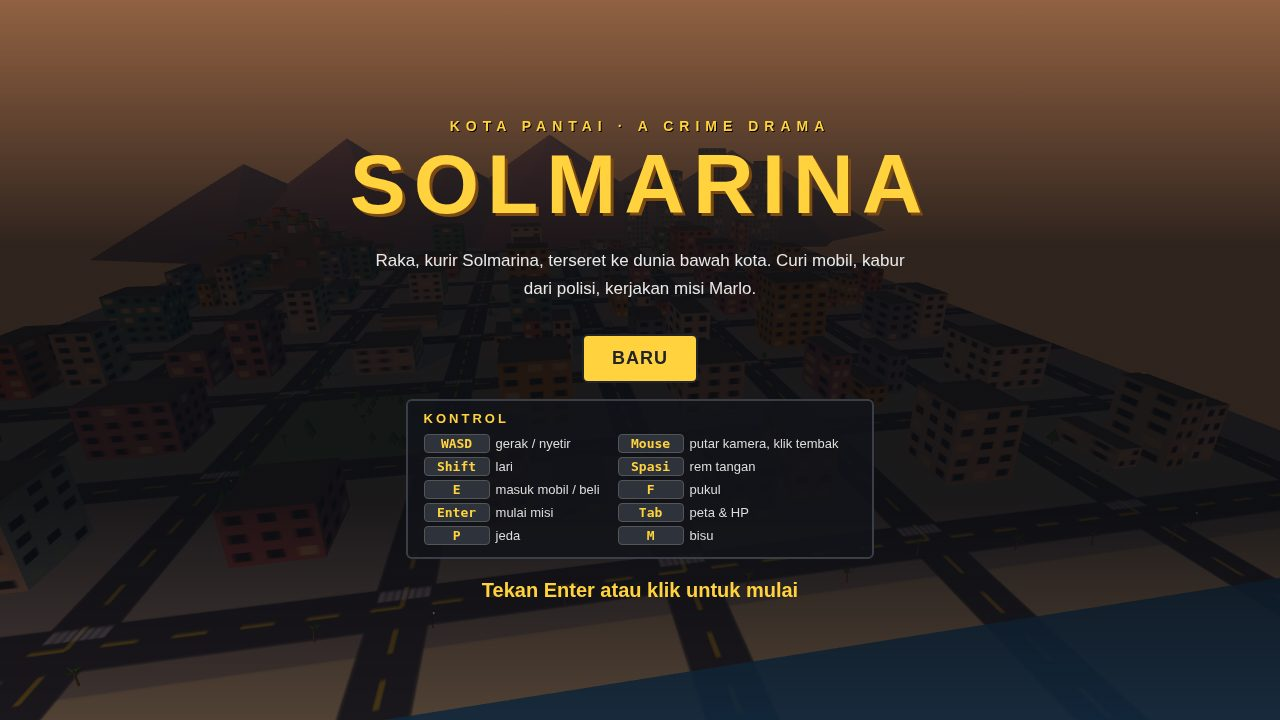
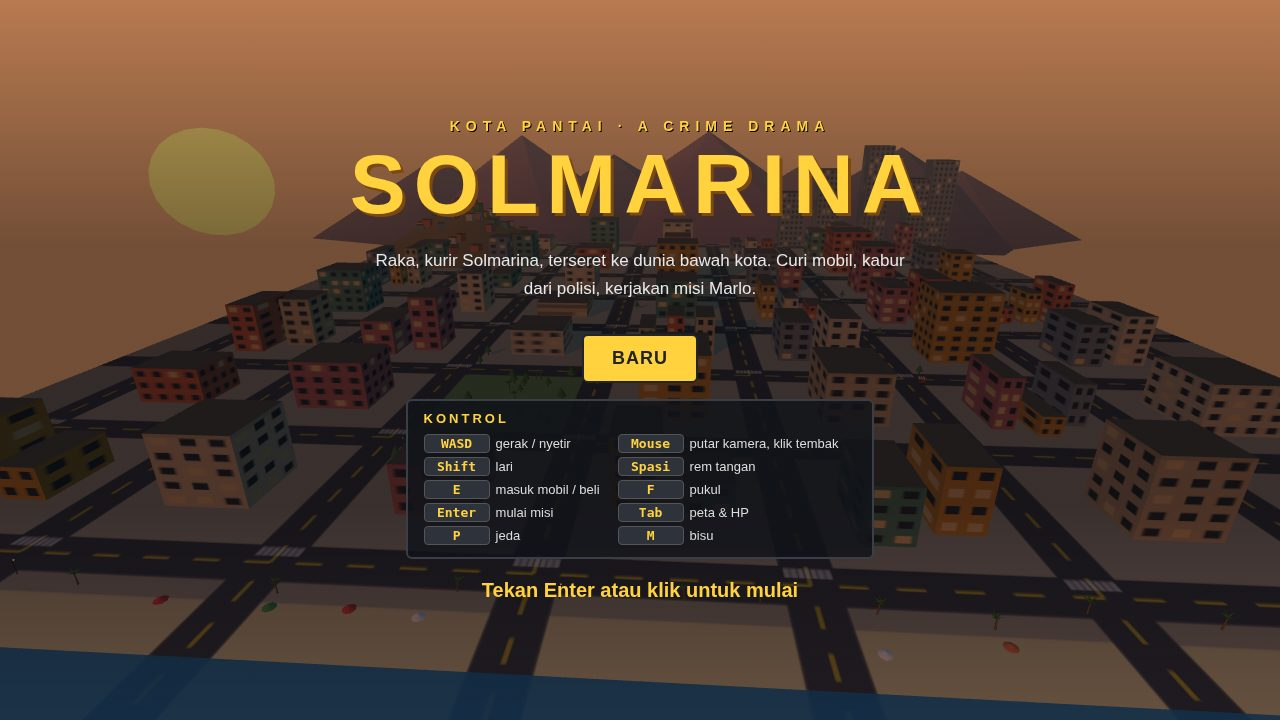
Polish pass v3: composition (Mare Alta bar)
- 3-chase is composition, not map: police 10-12 units ahead (not 20+)
  plus a third unit right behind the player, big in the lower frame;
  4 traffic cars strung ahead on the beachfront road; heli 2x scale,
  low over the beach south of the road (upper-left, clear of the
  objective banner, side-on so it reads blue, not a black slab);
  camera yawed 0.3 rad toward the sea so beach/palms/umbrellas/crowd
  fill the left third; crowd is two packed rows facing the road;
  beach umbrellas added as static sand decor (own seeded rng, v2
  decor layout untouched).
- 1-start: the sun disc is no longer hidden on the title screen and
  no longer sits south-west behind the camera: it is west-northwest
  over the ridge, the title camera looks nudged west so it reads
  upper-left, clear of the text; the disc billboards to the camera
  (round, not a squashed ellipse) and is bigger/brighter (1.8x,
  0xffd76a); title overlay lightened 0.84 -> 0.55 mid-band so the
  sunset sky reads bright instead of flat mud.
- 4-mission: player faces ENE so stalls 2-3 and the cafe beacon read
  across the frame; 8 shoppers (all three stalls + two foreground,
  one at each lower corner) and 2 traffic cars on the market street,
  so the bottom half is people and street, not empty pavement.
- Map unchanged (already matches the reference).

Verified: unit-3d 99/99, live-3d 43/43, 0 console errors, 4 shots.

diff --git a/game/src/shots.js b/game/src/shots.js
@@ -18,7 +18,10 @@ export function stageShot(G, name) {
     // shot only: at the normal 520 the hill and towers wash out.
     G.clock = 561;
     if (G.scene && G.scene.fog) { G.scene.fog.near = 300; G.scene.fog.far = 1800; }
-    G.shotCamera = { pos: { x: 0, y: 120, z: 420 }, look: { x: 60, y: 0, z: 100 } };
+    // look nudged west (was x 60): the golden-hour sun disc sits
+    // west-northwest over the ridge, so from here it reads upper-left,
+    // clear of the title text, instead of hiding behind the camera
+    G.shotCamera = { pos: { x: 0, y: 120, z: 420 }, look: { x: -20, y: 0, z: 100 } };
     return;
   }
   if (name === '2-drive') {
@@ -60,37 +63,62 @@ export function stageShot(G, name) {
     car.x = 60; car.z = 280;
     car.heading = Math.PI / 2;
     G.player.x = car.x; G.player.z = car.z;
-    G.cameraRig.snapTo(car.heading);
+    // camera looks 0.3 rad toward the sea (south): the beach, palms,
+    // umbrellas and crowd fill the left third of the frame and the sea
+    // reads beyond them, instead of the frame being all road
+    G.cameraRig.snapTo(car.heading, 0.3);
     // escape mission m2: the objective banner + TERLIHAT indicator read
     G.wanted.addHeat(75); // 4 stars
     const def = G.missions.defs.find((m) => m.id === 'm2');
     G.missions.start(def);
     balanceUnits(G.police, G.wanted.stars, G.player.x, G.player.z, G.rng);
-    // police cars IN FRAME: two cutting across ahead of the player (the
-    // chase camera looks forward, so pursuers behind the player are
-    // invisible); a third closes in from behind
+    // police cars IN FRAME and CLOSE (the v2 complaint: small and far,
+    // bottom half empty road): two cutting across just ahead of the
+    // player, and a third right behind the player on the north lane,
+    // between the camera and the player car, so it reads big in the
+    // lower-right of the frame like the reference's nearest unit
     const units = G.police.units.filter((u) => u.kind === 'car');
     const spots = [
-      { x: 38, z: 274, heading: -Math.PI / 2 }, // ahead-left, facing the player
-      { x: 42, z: 288, heading: -Math.PI / 2 }, // ahead-right, facing the player
-      { x: 84, z: 280, heading: Math.PI / 2 }, // behind, in pursuit
+      { x: 48, z: 275, heading: -Math.PI / 2 }, // ahead-left, facing the player
+      { x: 50, z: 285, heading: -Math.PI / 2 }, // ahead-right, facing the player
+      { x: 62, z: 275.5, heading: Math.PI / 2 }, // behind, in pursuit, big
     ];
     units.forEach((u, i) => {
       const s = spots[i % spots.length];
       u.car.x = s.x; u.car.z = s.z; u.car.heading = s.heading; u.car.speed = 20;
     });
-    // helicopter hovering low and close ahead down the beachfront road,
-    // just above the camera's view axis: the chase camera pitches down
-    // steeply, so a heli at hover height sits above the frame; low, close
-    // and (at 1.5x scale) big, it reads at the top edge like the reference
+    // traffic ahead on the beachfront road (the other v2 complaint:
+    // no cars ahead): four cars strung down the road in front of the
+    // player, so the road ahead is full, not an empty stretch
+    const traffic = G.vehicles.list.filter((c) => c.driver === 'traffic');
+    const trafficSpots = [
+      { x: 44, z: 280, heading: Math.PI / 2 },
+      { x: 36, z: 276, heading: Math.PI / 2 },
+      { x: 27, z: 284, heading: Math.PI / 2 },
+      { x: 18, z: 278, heading: -Math.PI / 2 }, // oncoming
+    ];
+    traffic.slice(0, 4).forEach((c, i) => {
+      c.x = trafficSpots[i].x; c.z = trafficSpots[i].z; c.heading = trafficSpots[i].heading; c.speed = 12;
+    });
+    // helicopter low, close and ahead (2x scale): big across the top of
+    // the frame like the reference, not a toy at the top edge. It sits
+    // SOUTH of the road, over the beach (z 296, not 284): from the chase
+    // camera that puts it upper-left over the sea, clear of the objective
+    // banner, and the camera sees its side, not just its dark underside.
+    // y 5, not 7: updateHeli lerps it toward hover height 20 over the
+    // staged frames, so a y 7 start ends half-clipped at the top edge.
+    // angle pi puts its orbit target north of the player, so it drifts
+    // over the road, not out to sea
     G.heli.active = true;
     G.heli.leaving = false;
-    G.heli.x = 25; G.heli.z = 288; G.heli.y = 7;
-    // crowd of pedestrians on the beach sidewalk watching the chase
+    G.heli.angle = Math.PI;
+    G.heli.x = 42; G.heli.z = 296; G.heli.y = 5;
+    // crowd of pedestrians on the beach sidewalk watching the chase,
+    // two packed rows facing the road (was one loose row facing west)
     G.peds.list.forEach((ped, i) => {
-      ped.x = -20 + (i % 8) * 12;
-      ped.z = 292 + Math.floor(i / 8) * 6;
-      ped.heading = Math.PI / 2;
+      ped.x = -30 + (i % 8) * 14;
+      ped.z = i < 8 ? 291 : 296;
+      ped.heading = 0; // facing north, toward the road
     });
     G.shotCamera = null;
     return;
@@ -107,14 +135,38 @@ export function stageShot(G, name) {
     const car = G.vehicles.list.find((c) => c.type === 'taxi' && !c.driver);
     car.x = 136; car.z = 112; car.heading = -Math.PI / 2;
     G.player.x = STALLS[0].x; G.player.z = STALLS[0].z + 4;
-    G.player.heading = -Math.PI / 4; // facing north-east, down the market row
+    G.player.heading = -Math.PI / 3; // facing east-north-east, down the
+    // market row: stalls 2 and 3 and the gold cafe beacon read across
+    // the frame to the right, instead of sitting behind the minimap
     G.player.onFoot = true;
     G.player.car = null;
-    G.cameraRig.snapTo(-Math.PI / 4);
-    G.peds.list.slice(0, 4).forEach((ped, i) => {
-      const spots = [[104, 130], [120, 128], [140, 130], [152, 126]];
+    G.cameraRig.snapTo(-Math.PI / 3);
+    // shoppers at ALL THREE stalls plus two in the FOREGROUND, one at
+    // each lower corner of the frame (was 4 shoppers at one stall):
+    // the market reads busy, and the bottom half of the frame is people
+    // and street, not empty pavement. Foreground spots are beside the
+    // camera-player axis, not behind the camera: south of the player is
+    // behind the camera from this angle, so the first attempt at (92,134)
+    // never rendered. All face south, toward the camera.
+    G.peds.list.slice(0, 8).forEach((ped, i) => {
+      const spots = [
+        [100, 128], [112, 130], // stall 1 (Sate Madura)
+        [124, 128], [136, 130], // stall 2 (Es Kelapa)
+        [156, 128], [168, 130], // stall 3 (Gorengan)
+        [93, 125], [99, 132], // foreground, lower-left / lower-right
+      ];
       ped.x = spots[i][0]; ped.z = spots[i][1];
-      ped.heading = Math.PI; // facing south, toward the stalls' customers
+      ped.heading = Math.PI;
+    });
+    // traffic on the market street, so the road to the right is busy
+    // too (the taxi is already parked at 136,112)
+    const traffic = G.vehicles.list.filter((c) => c.driver === 'traffic');
+    const trafficSpots = [
+      { x: 180, z: 116, heading: -Math.PI / 2 }, // eastbound
+      { x: 204, z: 124, heading: Math.PI / 2 }, // westbound
+    ];
+    traffic.slice(0, 2).forEach((c, i) => {
+      c.x = trafficSpots[i].x; c.z = trafficSpots[i].z; c.heading = trafficSpots[i].heading; c.speed = 10;
     });
     G.player.money = 150;
     G.player.hasPistol = true;

diff --git a/game/src/render.js b/game/src/render.js
@@ -330,6 +330,18 @@ export function buildEnvironment(scene, seed) {
     palm.position.set(range(rng, px0 + 8, px1 - 8), 0, range(rng, pz0 + 8, pz1 - 8));
     scene.add(palm);
   }
+  // beach umbrellas on the sand (z 300-310, just south of the crowd),
+  // seeded on their own rng so the rest of the decor keeps its v2
+  // layout: the chase shot's crowd sits among them and they read from
+  // the road as a beach strip
+  const umRng = mulberry32(seed + 911);
+  for (let x = -160; x <= 140; x += 24) {
+    if (umRng() < 0.25) continue;
+    const um = makeUmbrella(umRng);
+    um.position.set(x + range(umRng, -6, 6), 0, 298 + range(umRng, 0, 8));
+    um.rotation.y = umRng() * Math.PI;
+    scene.add(um);
+  }
   // hydrants
   for (let i = 0; i < 8; i++) {
     const line = pick(rng, lines);
@@ -386,9 +398,15 @@ export function createDayNight(scene, sun, hemi, env) {
         disc.material.color.setHex(0xdfe8ff);
         disc.scale.setScalar(0.8);
       } else if (t.golden) {
-        disc.position.set(-190, 60, 430);
-        disc.material.color.setHex(0xff8a3c);
-        disc.scale.setScalar(1.4);
+        // west-northwest over the ridge, NOT south-west over the sea: the
+        // title camera sits south looking north, so a south-west disc is
+        // behind it and the title has no visible sun. From the re-aimed
+        // title camera this disc sits upper-left, clear of the title
+        // text; from the west-looking chase camera it is out of frame,
+        // instead of a clipped orange blob at the top edge.
+        disc.position.set(-420, 80, -120);
+        disc.material.color.setHex(0xffd76a);
+        disc.scale.setScalar(1.8);
       } else {
         disc.position.set(200, 190, 430);
         disc.material.color.setHex(0xfff2c0);
@@ -445,6 +463,23 @@ export function makeLamp() {
   arm.position.set(0.7, 4.9, 0);
   g.add(pole, arm, head);
   g.userData.headMat = headMat;
+  return g;
+}
+
+// Beach umbrella: pole + bright cone canopy. Static decor on the sand
+// south of the beachfront road, so the beach reads as a beach (crowd +
+// umbrellas + sea) from the chase camera, like the reference.
+export function makeUmbrella(rng) {
+  const g = new THREE.Group();
+  const pole = new THREE.Mesh(new THREE.CylinderGeometry(0.06, 0.06, 2.4, 6), mat(0xe8e2d0));
+  pole.position.y = 1.2; pole.castShadow = false;
+  g.add(pole);
+  const canopy = new THREE.Mesh(
+    new THREE.ConeGeometry(1.9, 0.9, 8),
+    mat(pick(rng, [0xe04848, 0xf2c230, 0x2f7fb8, 0xe07856, 0x58a05c, 0xf2f2f2])),
+  );
+  canopy.position.y = 2.7; canopy.castShadow = false;
+  g.add(canopy);
   return g;
 }
 
@@ -513,7 +548,9 @@ export function makeStallMesh(stall) {
 // Police helicopter: body, tail boom + rotor, skids, searchlight cone.
 export function makeHeliMesh() {
   const g = new THREE.Group();
-  const bodyMat = mat(0x2e4a6a);
+  // bright police blue, not dark navy: from the chase camera (below and
+  // behind) a navy heli reads as a black slab; this reads as a helicopter
+  const bodyMat = mat(0x4a7fb8);
   const body = box(2.6, 1.4, 4.2, bodyMat);
   body.position.y = 0;
   const glass = box(2.2, 0.8, 1.2, new THREE.MeshLambertMaterial({ color: 0x9fc4d8, emissive: 0x2a4a5a, emissiveIntensity: 0.4 }));
@@ -838,12 +875,16 @@ export function createSkids(scene) {
 export function createCameraRig(camera) {
   let yaw = 0; // world yaw the camera sits behind
   let freeYaw = 0; // drag offset, decays back to 0
+  let yawOffset = 0; // staged offset off the follow axis (chase shot:
+  // the camera looks 0.3 rad toward the sea so the beach fills the
+  // left of the frame); persists in targetYaw so the per-frame lerp
+  // does not eat it before the staged frame renders
   let trauma = 0;
   let t = 0;
   return {
     addTrauma(amount) { trauma = clamp(trauma + amount, 0, 1); },
     get trauma() { return trauma; },
-    snapTo(heading) { yaw = heading; freeYaw = 0; },
+    snapTo(heading, offset) { yawOffset = offset || 0; yaw = heading + yawOffset; freeYaw = 0; },
     // Title/menu orbit: high, slow, wide — the city fills the frame.
     updateMenu(dt, target, now) {
       t += dt;
@@ -860,7 +901,7 @@ export function createCameraRig(camera) {
       freeYaw += (dragDX || 0) * 0.004;
       freeYaw *= Math.pow(0.5, dt / 1.5); // decay back toward following
       // follow the heading, but let the drag offset persist briefly
-      const targetYaw = heading + freeYaw;
+      const targetYaw = heading + yawOffset + freeYaw;
       yaw += angleDiff(yaw, targetYaw) * Math.min(1, dt * (inCar ? 2.2 : 3.2));
       // higher + further than the old rig, looking a touch further ahead:
       // the old low camera filled the bottom third of the frame with

diff --git a/game/src/main.js b/game/src/main.js
@@ -353,10 +353,12 @@ function frame(now) {
   // the time of day (low and warm at golden hour)
   sun.position.set(G.player.x + dayNight.sunOffset.x, dayNight.sunOffset.y, G.player.z + dayNight.sunOffset.z);
   sun.target.position.set(G.player.x, 0, G.player.z);
-  // the golden-hour sun sits dead-centre behind the title text from the
-  // title camera, where the dark overlay turns it into a brown smudge:
-  // hide it on the title screen, show it everywhere else
-  env.sunDisc.visible = G.screen !== 'title';
+  // the sun disc always faces the camera (a billboard): from the title
+  // camera it reads as a round sun in the upper-left sky, not a squashed
+  // ellipse, and it is never hidden on the title screen (the old hide
+  // existed because the disc sat dead-centre behind the title text; it
+  // now sits upper-left, clear of the text)
+  env.sunDisc.lookAt(camera.position);
   renderer.render(scene, camera);
   if (SHOT) {
     shotFrames++;
@@ -638,11 +640,11 @@ function update(dt, now) {
   for (const u of G.police.units) {
     if (u.kind === 'car') syncCarMesh(u.car);
   }
-  // helicopter mesh follows its state (scaled up: a police heli reads
+  // helicopter mesh follows its state (scaled up 2x: a police heli reads
   // as a toy at 1x from the chase camera, and the HUD banner says it is
   // the reason the tail will not drop)
   heliMesh.visible = G.heli.active;
-  heliMesh.scale.setScalar(1.5);
+  heliMesh.scale.setScalar(2.0);
   if (G.heli.active) {
     heliMesh.position.set(G.heli.x, G.heli.y, G.heli.z);
     heliMesh.userData.rotor.rotation.y += dt * 28;

diff --git a/game/index.html b/game/index.html
@@ -32,8 +32,11 @@
   body.hide-hud .hud-el { display: none !important; }
   .screen { position: absolute; inset: 0; display: flex; flex-direction: column; align-items: center; justify-content: center; background: rgba(10, 12, 16, 0.72); color: #f2f2f2; text-align: center; z-index: 10; }
   /* Title: dark only in the middle band behind the text, so the 3D city
-     shows through at the top and bottom of the cover shot. */
-  #screen-title { background: linear-gradient(rgba(10, 12, 16, 0.42) 0%, rgba(10, 12, 16, 0.84) 34%, rgba(10, 12, 16, 0.84) 70%, rgba(10, 12, 16, 0.42) 100%); }
+     shows through at the top and bottom of the cover shot. The band is
+     light (0.55, was 0.84): at 0.84 the sunset sky read as flat mud and
+     the sun as a brown smudge; the title text keeps its hard shadow and
+     the controls table its own dark panel, so legibility holds. */
+  #screen-title { background: linear-gradient(rgba(10, 12, 16, 0.25) 0%, rgba(10, 12, 16, 0.55) 34%, rgba(10, 12, 16, 0.55) 70%, rgba(10, 12, 16, 0.25) 100%); }
   .screen h1 { font-size: 84px; margin: 0; letter-spacing: 8px; color: #ffd23e; text-shadow: 3px 3px 0 #7a4a12; }
   .title-eyebrow { font-size: 14px; font-weight: 800; letter-spacing: 6px; color: #ffd23e; margin-bottom: 2px; text-shadow: 1px 1px 0 #000; }
   .screen h2 { font-size: 40px; margin: 0; color: #ffd23e; letter-spacing: 4px; }

diff --git a/design/game-brief.md b/design/game-brief.md
@@ -61,6 +61,32 @@ Kamera third-person di belakang, chase cam saat nyetir.
   pernah snap (yaw lerps, framing shot meleset); warna langit dicuci
   karena setRGB linear vs sRGB.
 
+## Polish pass v3 2026-11-18 (composition, Maré Alta bar; Arya rejected v2:
+chase police small/far, no cars ahead, bottom half empty road)
+- 3-chase is composition, not map: police 10-12 units ahead (not 20+)
+  plus a third unit right behind the player, big in the lower frame;
+  4 traffic cars strung ahead on the beachfront road; heli 2x scale,
+  low over the beach south of the road (upper-left, clear of the
+  objective banner, side-on so it reads blue, not a black slab; y 5,
+  since updateHeli lerps it toward hover height 20 over the staged
+  frames); camera yawed 0.3 rad toward the sea so beach/palms/
+  umbrellas/crowd fill the left third; crowd is two packed rows facing
+  the road; beach umbrellas added as static sand decor (own seeded
+  rng, v2 decor layout untouched).
+- 1-start: the sun disc is no longer hidden on the title screen and no
+  longer sits south-west behind the camera: it is west-northwest over
+  the ridge, the title camera looks nudged west so it reads upper-left,
+  clear of the text; the disc billboards to the camera (round, not a
+  squashed ellipse); title overlay lightened 0.84 -> 0.55 mid-band so
+  the sunset sky reads bright instead of flat mud.
+- 4-mission: player faces ENE so stalls 2-3 and the cafe beacon read
+  across the frame; 8 shoppers (all three stalls + two foreground, one
+  at each lower corner of the frame) and 2 traffic cars on the market
+  street, so the bottom half is people and street, not empty pavement.
+  (Foreground spots must sit beside the camera-player axis: south of
+  the player is behind the camera from this angle and never renders.)
+- Map unchanged (already matches the reference).
+
 ## Anti-pillars
 - Bukan GTA: tidak ada nama, logo, karakter, peta atau musik Rockstar.
 - Tidak ada network: semua file lokal di game/, Three.js di-vendor.
